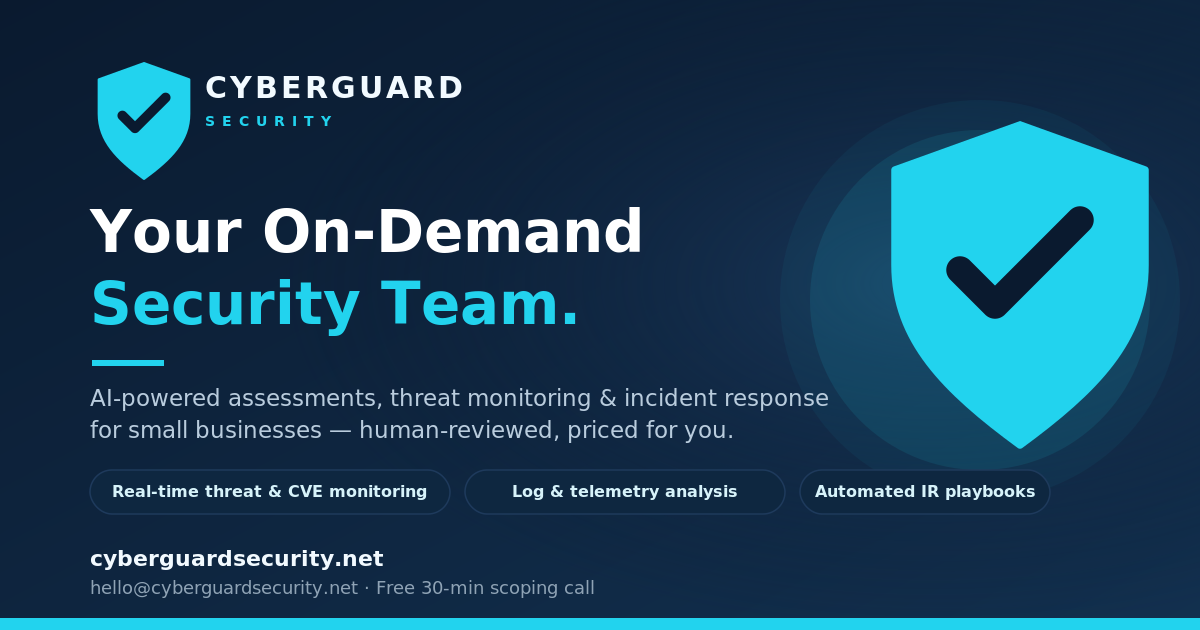
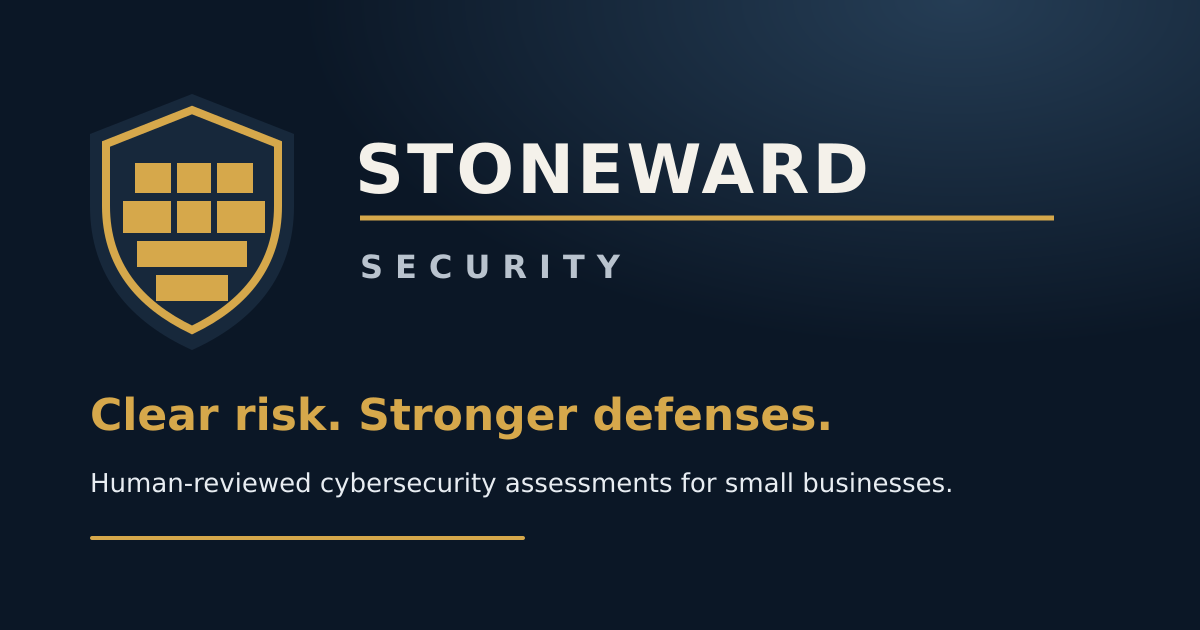
Rebrand website as Stoneward Security
Replace the CyberGuard identity with Stoneward Security across the homepage, metadata, brand assets, icons, and social sharing while preserving the lead funnel.

diff --git a/index.html b/index.html
@@ -4,30 +4,54 @@
 <head>
 <meta charset="UTF-8">
 <meta name="viewport" content="width=device-width, initial-scale=1.0">
-<title>Small Business Cybersecurity Assessments | CyberGuard</title>
+<title>Small Business Cybersecurity Assessments | Stoneward Security</title>
 <meta name="description" content="Get a human-reviewed cybersecurity assessment, prioritized 30/60/90-day action plan, and optional monitoring built for small businesses. Plans start at $750.">
-<meta name="theme-color" content="#0A1A2F">
+<meta name="theme-color" content="#0B1726">
 <link rel="icon" href="favicon.ico" sizes="any">
 <link rel="icon" href="icon-192x192.png" type="image/png" sizes="192x192">
 <link rel="apple-touch-icon" href="apple-touch-icon.png">
 <link rel="manifest" href="site.webmanifest">
-<!-- Social sharing (OG card). On deployment, replace og-card.png with your absolute URL, e.g. https://miguelito1997mv44-byte.github.io/og-card.png -->
-<meta property="og:title" content="Small Business Cybersecurity Assessments | CyberGuard">
+<meta property="og:title" content="Small Business Cybersecurity Assessments | Stoneward Security">
 <meta property="og:description" content="Human-reviewed risk assessments, prioritized action plans, and optional monitoring built for small businesses. Plans start at $750.">
 <meta property="og:image" content="https://miguelito1997mv44-byte.github.io/og-card.png">
+<meta property="og:image:width" content="1200">
+<meta property="og:image:height" content="630">
+<meta property="og:image:alt" content="Stoneward Security — Clear risk. Stronger defenses.">
 <meta property="og:url" content="https://miguelito1997mv44-byte.github.io/">
-<meta property="og:site_name" content="CyberGuard Security">
+<meta property="og:site_name" content="Stoneward Security">
+<meta property="og:locale" content="en_US">
 <link rel="canonical" href="https://miguelito1997mv44-byte.github.io/">
 <meta property="og:type" content="website">
 <meta name="twitter:card" content="summary_large_image">
-<meta name="twitter:title" content="Small Business Cybersecurity Assessments | CyberGuard">
+<meta name="twitter:title" content="Small Business Cybersecurity Assessments | Stoneward Security">
 <meta name="twitter:description" content="Human-reviewed risk assessments, prioritized action plans, and optional monitoring built for small businesses.">
 <meta name="twitter:image" content="https://miguelito1997mv44-byte.github.io/og-card.png">
+<script type="application/ld+json">
+{
+  "@context": "https://schema.org",
+  "@type": "Organization",
+  "name": "Stoneward Security",
+  "url": "https://miguelito1997mv44-byte.github.io/",
+  "logo": "https://miguelito1997mv44-byte.github.io/icon-512x512.png",
+  "description": "Human-reviewed cybersecurity assessments, monitoring, and incident-response guidance for small businesses.",
+  "email": "vdzelectric@gmail.com",
+  "areaServed": {
+    "@type": "Country",
+    "name": "United States"
+  },
+  "knowsAbout": [
+    "Cybersecurity assessments",
+    "Security monitoring",
+    "Incident response planning",
+    "Small business cybersecurity"
+  ]
+}
+</script>
 <style>
   :root{
-    --navy:#0A1A2F; --navy-2:#0E2740; --navy-3:#10243C; --navy-line:#1E3A5C;
-    --cyan:#22D3EE; --cyan-d:#0B84A6; --ink:#14263B; --muted:#5B6B7C;
-    --paper:#F4F7FB; --white:#FFFFFF; --line:#D7E1EC;
+    --navy:#0B1726; --navy-2:#17283B; --navy-3:#21344A; --navy-line:#344A61;
+    --gold:#D6A84B; --gold-d:#8A6017; --ink:#182536; --muted:#5D6978;
+    --paper:#F4F1EA; --white:#FFFFFF; --line:#D8DEE7;
     --radius:14px; --shadow:0 10px 30px rgba(10,26,47,.08);
     --font:"Segoe UI",-apple-system,BlinkMacSystemFont,Roboto,Helvetica,Arial,sans-serif;
   }
@@ -35,15 +59,15 @@
   html{scroll-behavior:smooth}
   body{font-family:var(--font);color:var(--ink);background:var(--white);line-height:1.6;font-size:16px}
   img{max-width:100%;display:block}
-  a{color:var(--cyan-d);text-decoration:none}
+  a{color:var(--gold-d);text-decoration:none}
   .wrap{max-width:1100px;margin:0 auto;padding:0 24px}
-  .btn{display:inline-block;background:var(--cyan);color:var(--navy);font-weight:700;padding:14px 28px;border-radius:10px;font-size:15px;transition:.2s}
-  .btn:hover{transform:translateY(-2px);box-shadow:0 8px 20px rgba(34,211,238,.35)}
+  .btn{display:inline-block;background:var(--gold);color:var(--navy);font-weight:800;padding:14px 28px;border-radius:8px;font-size:15px;transition:.2s}
+  .btn:hover{transform:translateY(-2px);box-shadow:0 8px 20px rgba(214,168,75,.3)}
   .btn.ghost{background:transparent;color:#E8F1FA;border:1px solid var(--navy-line)}
-  .btn.ghost:hover{border-color:var(--cyan);color:var(--cyan)}
+  .btn.ghost:hover{border-color:var(--gold);color:var(--gold)}
   .btn.dark{background:var(--navy-2);color:#fff}
   .btn.dark:hover{background:var(--navy)}
-  .kicker{display:inline-block;font-size:12px;letter-spacing:2.5px;text-transform:uppercase;font-weight:700;color:var(--cyan-d);border:1px solid var(--cyan);border-radius:999px;padding:6px 14px;margin-bottom:18px}
+  .kicker{display:inline-block;font-size:12px;letter-spacing:2.5px;text-transform:uppercase;font-weight:800;color:var(--gold-d);border:1px solid var(--gold);border-radius:999px;padding:6px 14px;margin-bottom:18px}
   h1,h2,h3{line-height:1.2;color:var(--navy)}
   .dark h1,.dark h2,.dark h3{color:#E8F1FA}
   section{padding:84px 0}
@@ -56,13 +80,14 @@
   .nav img{height:38px;width:auto}
   .nav-links{display:flex;gap:28px;align-items:center}
   .nav-links a{color:var(--ink);font-size:15px;font-weight:600}
-  .nav-links a:hover{color:var(--cyan-d)}
+  .nav-links a:hover{color:var(--gold-d)}
   .nav .btn{padding:10px 20px;font-size:14px}
   .burger{display:none;background:none;border:none;font-size:24px;color:var(--navy);cursor:pointer}
   /* ---------- Hero ---------- */
-  .hero{background:radial-gradient(1200px 500px at 80% -10%,#12304F 0%,var(--navy) 55%);color:#E8F1FA;padding:96px 0 84px}
+  .hero{background:radial-gradient(1200px 500px at 80% -10%,#253D55 0%,var(--navy) 58%);color:#E8F1FA;padding:96px 0 84px}
   .hero-grid{display:grid;grid-template-columns:1.15fr .85fr;gap:48px;align-items:center}
   .hero h1{font-size:52px;color:#fff;margin:6px 0 20px}
+  .hero .promise{color:var(--gold);font-size:17px;font-weight:800;letter-spacing:.3px;margin:-6px 0 10px}
   .hero .lead{font-size:19px;color:#B9CCDD;max-width:520px;margin-bottom:30px}
   .hero .cta-row{display:flex;gap:14px;flex-wrap:wrap;margin-bottom:34px}
   .chips{display:flex;flex-wrap:wrap;gap:8px;margin-bottom:40px}
@@ -70,44 +95,44 @@
   .hero-stats{display:grid;grid-template-columns:repeat(4,1fr);gap:16px}
   .hero-stats-spaced{margin-top:56px}
   .hstat{background:var(--navy-2);border:1px solid var(--navy-line);border-radius:var(--radius);padding:18px}
-  .hstat .num{font-size:24px;font-weight:800;color:var(--cyan)}
+  .hstat .num{font-size:24px;font-weight:800;color:var(--gold)}
   .hstat .lbl{font-size:12.5px;color:#9FB4C6;margin-top:4px;line-height:1.4}
   .hero-art{background:var(--navy-2);border:1px solid var(--navy-line);border-radius:20px;padding:30px;position:relative}
   .hero-art img{height:110px;margin:0 auto 18px}
-  .hero-art h3{color:var(--cyan);font-size:15px;letter-spacing:1px;text-transform:uppercase;margin-bottom:10px}
+  .hero-art h3{color:var(--gold);font-size:15px;letter-spacing:1px;text-transform:uppercase;margin-bottom:10px}
   .hero-art ul{list-style:none}
   .hero-art li{padding:8px 0 8px 30px;position:relative;font-size:15px;color:#DCE9F2;border-bottom:1px dashed var(--navy-line)}
   .hero-art li:last-child{border-bottom:none}
-  .hero-art li::before{content:"✓";position:absolute;left:0;color:var(--cyan);font-weight:800}
-  .hero-art .badge{position:absolute;top:-14px;right:20px;background:var(--cyan);color:var(--navy);font-size:12px;font-weight:800;padding:6px 14px;border-radius:999px}
+  .hero-art li::before{content:"✓";position:absolute;left:0;color:var(--gold);font-weight:800}
+  .hero-art .badge{position:absolute;top:-14px;right:20px;background:var(--gold);color:var(--navy);font-size:12px;font-weight:800;padding:6px 14px;border-radius:999px}
   /* ---------- Trust strip ---------- */
   .trust{background:var(--paper);padding:28px 0;border-bottom:1px solid var(--line)}
   .trust .wrap{display:flex;justify-content:space-between;gap:20px;flex-wrap:wrap;align-items:center}
   .trust-item{display:flex;align-items:center;gap:10px;font-size:14px;font-weight:600;color:var(--navy)}
-  .trust-item .tick{background:var(--navy-2);color:var(--cyan);width:26px;height:26px;border-radius:50%;display:flex;align-items:center;justify-content:center;font-size:13px;flex-shrink:0}
+  .trust-item .tick{background:var(--navy-2);color:var(--gold);width:26px;height:26px;border-radius:50%;display:flex;align-items:center;justify-content:center;font-size:13px;flex-shrink:0}
   /* ---------- Services ---------- */
   .svc-grid{display:grid;grid-template-columns:repeat(2,1fr);gap:22px}
   .svc{background:var(--white);border:1px solid var(--line);border-radius:var(--radius);padding:28px;box-shadow:var(--shadow)}
-  .svc .ic{width:46px;height:46px;border-radius:12px;background:var(--navy-2);color:var(--cyan);display:flex;align-items:center;justify-content:center;font-size:22px;font-weight:800;margin-bottom:16px}
+  .svc .ic{width:46px;height:46px;border-radius:10px;background:var(--navy-2);color:var(--gold);display:flex;align-items:center;justify-content:center;font-size:22px;font-weight:800;margin-bottom:16px}
   .svc h3{font-size:19px;margin-bottom:8px}
   .svc p{color:var(--muted);font-size:15px}
   /* ---------- How it works ---------- */
   .how{background:var(--navy);color:#E8F1FA}
   .steps{display:grid;grid-template-columns:repeat(4,1fr);gap:18px}
   .step{background:var(--navy-2);border:1px solid var(--navy-line);border-radius:var(--radius);padding:24px;text-align:center}
-  .step .n{width:44px;height:44px;margin:0 auto 14px;border-radius:50%;background:var(--cyan);color:var(--navy);font-weight:800;font-size:18px;display:flex;align-items:center;justify-content:center}
+  .step .n{width:44px;height:44px;margin:0 auto 14px;border-radius:50%;background:var(--gold);color:var(--navy);font-weight:800;font-size:18px;display:flex;align-items:center;justify-content:center}
   .step h3{font-size:16.5px;color:#E8F1FA;margin-bottom:8px}
   .step p{font-size:13.5px;color:#9FB4C6}
   .how-note{margin-top:28px;background:var(--navy-2);border:1px solid var(--navy-line);border-radius:var(--radius);padding:24px;display:grid;grid-template-columns:1fr 1fr;gap:22px}
-  .how-note h4{color:var(--cyan);font-size:15px;margin-bottom:8px}
+  .how-note h4{color:var(--gold);font-size:15px;margin-bottom:8px}
   .how-note p{font-size:14px;color:#B9CCDD}
   /* ---------- Outcomes ---------- */
   .out-grid{display:grid;grid-template-columns:repeat(4,1fr);gap:18px}
   .out{background:var(--white);border:1px solid var(--line);border-radius:var(--radius);padding:24px;text-align:center;box-shadow:var(--shadow)}
-  .out .num{font-size:30px;font-weight:800;color:var(--cyan-d)}
+  .out .num{font-size:30px;font-weight:800;color:var(--gold-d)}
   .out .lbl{font-size:13.5px;color:var(--muted);margin-top:6px}
   .bar{background:var(--paper);border:1px solid var(--line);border-radius:12px;overflow:hidden;height:14px;margin-top:6px}
-  .bar span{display:block;height:100%;background:linear-gradient(90deg,var(--cyan),#3B82F6)}
+  .bar span{display:block;height:100%;background:linear-gradient(90deg,var(--gold),#68798B)}
   .bar .w-20{width:20%}
   .bar .w-29{width:29%}
   .bar .w-71{width:71%}
@@ -117,30 +142,30 @@
   .pricing{background:var(--paper)}
   .price-grid{display:grid;grid-template-columns:repeat(4,1fr);gap:18px;align-items:stretch}
   .plan{background:var(--white);border:1px solid var(--line);border-radius:var(--radius);padding:26px;display:flex;flex-direction:column}
-  .plan.featured{border:2px solid var(--cyan);box-shadow:0 12px 34px rgba(34,211,238,.18)}
+  .plan.featured{border:2px solid var(--gold);box-shadow:0 12px 34px rgba(214,168,75,.18)}
   .plan .p-name{font-size:15px;font-weight:800;color:var(--navy);text-transform:uppercase;letter-spacing:.5px}
   .plan .p-price{font-size:30px;font-weight:800;color:var(--navy);margin:10px 0 2px}
   .plan .price-period{font-size:16px;color:var(--muted)}
   .plan .p-sub{font-size:13px;color:var(--muted);margin-bottom:16px}
   .plan ul{list-style:none;flex:1;margin-bottom:20px}
   .plan li{padding:7px 0 7px 26px;position:relative;font-size:14px;color:#3A4B5E}
-  .plan li::before{content:"✓";position:absolute;left:0;color:var(--cyan-d);font-weight:800}
+  .plan li::before{content:"✓";position:absolute;left:0;color:var(--gold-d);font-weight:800}
   .plan .btn{text-align:center}
   .addons{margin-top:26px;display:grid;grid-template-columns:repeat(2,1fr);gap:12px}
   .addon{background:var(--white);border:1px solid var(--line);border-radius:10px;padding:14px 18px;display:flex;justify-content:space-between;font-size:14.5px}
   .addon b{color:var(--navy)}
   .included{margin-top:26px;background:var(--navy-2);border-radius:var(--radius);padding:22px 26px;color:#DCE9F2}
-  .included h4{color:var(--cyan);font-size:15px;margin-bottom:10px}
+  .included h4{color:var(--gold);font-size:15px;margin-bottom:10px}
   .included ul{list-style:none;display:grid;grid-template-columns:repeat(2,1fr);gap:6px 24px}
   .included li{font-size:14px;padding-left:24px;position:relative}
-  .included li::before{content:"✓";position:absolute;left:0;color:var(--cyan)}
+  .included li::before{content:"✓";position:absolute;left:0;color:var(--gold)}
   /* ---------- Why us ---------- */
   .why{background:var(--navy);color:#E8F1FA}
   table.cmp{width:100%;border-collapse:collapse;background:var(--navy-2);border-radius:14px;overflow:hidden;font-size:14.5px}
-  table.cmp th{background:var(--navy-3);color:var(--cyan);text-align:left;padding:14px 18px;font-size:13px;text-transform:uppercase;letter-spacing:1px}
+  table.cmp th{background:var(--navy-3);color:var(--gold);text-align:left;padding:14px 18px;font-size:13px;text-transform:uppercase;letter-spacing:1px}
   table.cmp td{padding:14px 18px;border-top:1px solid var(--navy-line);color:#B9CCDD;vertical-align:top}
   table.cmp td:first-child{color:#E8F1FA;font-weight:700;white-space:nowrap}
-  table.cmp .win{color:var(--cyan)}
+  table.cmp .win{color:var(--gold)}
   .why-note{margin-top:22px;font-size:14px;color:#9FB4C6}
   /* ---------- FAQ ---------- */
   .faq{max-width:760px;margin:0 auto}
@@ -154,12 +179,13 @@
   .contact h2{color:#fff}
   .contact .sub{color:#9FB4C6;margin-bottom:26px}
   .c-item{display:flex;align-items:center;gap:12px;margin-bottom:14px;font-size:15px;color:#DCE9F2}
-  .c-item .ic{width:36px;height:36px;border-radius:10px;background:var(--navy-2);color:var(--cyan);display:flex;align-items:center;justify-content:center;font-size:16px;flex-shrink:0}
+  .contact .c-item a{color:#E8EDF2;text-decoration:underline;text-decoration-color:var(--gold);text-underline-offset:3px}
+  .c-item .ic{width:36px;height:36px;border-radius:10px;background:var(--navy-2);color:var(--gold);display:flex;align-items:center;justify-content:center;font-size:16px;flex-shrink:0}
   form{background:var(--navy-2);border:1px solid var(--navy-line);border-radius:16px;padding:28px}
   .frow{display:grid;grid-template-columns:1fr 1fr;gap:14px}
   label{display:block;font-size:13px;font-weight:700;color:#B9CCDD;margin:14px 0 6px}
   input,textarea{width:100%;background:var(--navy-3);border:1px solid var(--navy-line);border-radius:9px;padding:12px 14px;color:#E8F1FA;font-size:15px;font-family:inherit}
-  input:focus,textarea:focus{outline:none;border-color:var(--cyan)}
+  input:focus,textarea:focus{outline:none;border-color:var(--gold)}
   textarea{resize:vertical;min-height:110px}
   form .btn{width:100%;margin-top:20px;border:none;cursor:pointer;font-size:15px}
   .form-note{font-size:12.5px;color:#9FB4C6;margin-top:12px;text-align:center}
@@ -195,7 +221,7 @@
 <!-- ================= HEADER ================= -->
 <header>
   <div class="wrap nav">
-    <img src="cyberguard_logo.svg" alt="CyberGuard Security logo">
+    <img src="stoneward_logo.svg" alt="Stoneward Security logo">
     <nav class="nav-links" id="navLinks">
       <a href="#services">Services</a>
       <a href="#how">How it works</a>
@@ -214,7 +240,8 @@
     <div>
       <span class="kicker">Human-reviewed cybersecurity for small businesses</span>
       <h1>Find your biggest cyber risks.<br>Fix what matters first.</h1>
-      <p class="lead">Get a clear risk assessment, evidence-backed findings, and a prioritized 30/60/90-day action plan — without hiring an in-house security team. Target first-draft delivery: 48 hours; assessments start at $750.</p>
+      <p class="promise">Clear risk. Stronger defenses.</p>
+      <p class="lead">Get a nationwide, human-reviewed risk assessment, evidence-backed findings, and a prioritized 30/60/90-day action plan — without hiring an in-house security team. Target first-draft delivery: 48 hours; assessments start at $750.</p>
       <div class="cta-row">
         <a class="btn" href="#contact">Book a free 30-minute risk review</a>
         <a class="btn ghost" href="#pricing">View plans and pricing</a>
@@ -225,11 +252,12 @@
         <span class="chip">Prioritized 30/60/90-day plan</span>
         <span class="chip">Optional on-site log processing</span>
         <span class="chip">Human-reviewed reports</span>
+        <span class="chip">Nationwide, remote-first service</span>
       </div>
     </div>
     <div class="hero-art">
       <span class="badge">First draft in 48h</span>
-      <img src="cyberguard_logo_icon_light.svg" alt="CyberGuard Security shield">
+      <img src="stoneward_logo_icon_light.svg" alt="Stoneward Security shield">
       <h3>Your first assessment includes</h3>
       <ul>
         <li>Risk and posture scores across 13 controls</li>
@@ -357,7 +385,7 @@
           <li>Prioritized 30/60/90 plan</li>
           <li>30-min review call</li>
         </ul>
-        <a class="btn dark" href="mailto:vdzelectric@gmail.com?subject=CyberGuard%20Assessment">Get started</a>
+        <a class="btn dark" href="mailto:vdzelectric@gmail.com?subject=Stoneward%20Security%20Assessment">Get started</a>
       </div>
       <div class="plan featured">
         <div class="p-name">Monitoring Essentials</div>
@@ -370,7 +398,7 @@
           <li>Email support</li>
           <li>Posture trend tracking</li>
         </ul>
-        <a class="btn" href="mailto:vdzelectric@gmail.com?subject=Monitoring%20Essentials">Start monitoring</a>
+        <a class="btn" href="mailto:vdzelectric@gmail.com?subject=Stoneward%20Security%20Monitoring%20Essentials">Start monitoring</a>
       </div>
       <div class="plan">
         <div class="p-name">Monitoring Pro</div>
@@ -384,7 +412,7 @@
           <li>Quarterly deep dive</li>
           <li>24-hour analyst response</li>
         </ul>
-        <a class="btn dark" href="mailto:vdzelectric@gmail.com?subject=Monitoring%20Pro">Go Pro</a>
+        <a class="btn dark" href="mailto:vdzelectric@gmail.com?subject=Stoneward%20Security%20Monitoring%20Pro">Go Pro</a>
       </div>
       <div class="plan">
         <div class="p-name">MSP White-Label</div>
@@ -396,7 +424,7 @@
           <li>Volume pricing tiers</li>
           <li>Onboarding &amp; training included</li>
         </ul>
-        <a class="btn dark" href="mailto:vdzelectric@gmail.com?subject=MSP%20White-Label">Partner with us</a>
+        <a class="btn dark" href="mailto:vdzelectric@gmail.com?subject=Stoneward%20Security%20MSP%20White-Label">Partner with us</a>
       </div>
     </div>
     <div class="addons">
@@ -427,7 +455,7 @@
     </div>
     <table class="cmp">
       <tbody>
-      <tr><th>Option</th><th>What you get</th><th>Where CyberGuard Security wins</th></tr>
+      <tr><th>Option</th><th>What you get</th><th>Where Stoneward Security wins</th></tr>
       <tr><td>MSSP retainer</td><td>24/7 monitoring, slow onboarding, generic reports</td><td class="win">Lower entry cost · assessments in days · plain-language reports</td></tr>
       <tr><td>SIEM / SOC platforms</td><td>Powerful, but needs security analysts to operate</td><td class="win">Built for small businesses without an in-house analyst</td></tr>
       <tr><td>DIY tools (Wazuh, ELK)</td><td>Free software, big IT project</td><td class="win">Analysis, playbooks, and reporting done for you</td></tr>
@@ -478,7 +506,7 @@
       <span class="kicker">Contact</span>
       <h2>Book your free 30-minute risk review</h2>
       <p class="sub">We'll map your environment, identify the highest-priority questions, and recommend the right next step — even if that is not one of our paid plans.</p>
-      <div class="c-item"><span class="ic">✉</span> vdzelectric@gmail.com</div>
+      <div class="c-item"><span class="ic">✉</span> <a href="mailto:vdzelectric@gmail.com?subject=Stoneward%20Security%20inquiry">Email Stoneward Security</a></div>
       <div class="c-item"><span class="ic">🕒</span> First DRAFT report within 48 hours</div>
       <div class="c-item"><span class="ic">🔒</span> Raw logs deleted after analysis — or kept on your network (Tier 2)</div>
     </div>
@@ -492,7 +520,7 @@
       <label for="msg">Tell us about your environment</label>
       <textarea id="msg" name="msg" placeholder="e.g. 12 employees, Windows 11, Microsoft 365, WordPress site, no IT staff…"></textarea>
       <button type="submit" class="btn">Request my free risk review</button>
-      <p class="form-note" id="formNote">This form opens your email app — or write to vdzelectric@gmail.com directly.</p>
+      <p class="form-note" id="formNote">This form opens your email app so you can review the message before sending.</p>
     </form>
   </div>
 </section>
@@ -501,13 +529,13 @@
 <footer>
   <div class="wrap">
     <div class="foot">
-      <img src="cyberguard_logo_light.svg" alt="CyberGuard Security">
+      <img src="stoneward_logo_light.svg" alt="Stoneward Security">
       <div>
         <a href="#top">Back to top ↑</a> &nbsp;·&nbsp;
-        <a href="mailto:vdzelectric@gmail.com">vdzelectric@gmail.com</a>
+        <a href="mailto:vdzelectric@gmail.com?subject=Stoneward%20Security%20inquiry">Email Stoneward Security</a>
       </div>
     </div>
-    <p class="disc">CyberGuard Security provides advisory security assessments, monitoring, and incident-response guidance. Services are advisory in nature and do not constitute a guarantee of security, a compliance certification, or legal advice. Findings are based on the information and logs provided. Reports are DRAFT until human review and sign-off. © <span id="year"></span> CyberGuard Security. All rights reserved.</p>
+    <p class="disc">Stoneward Security provides advisory security assessments, monitoring, and incident-response guidance. Services are advisory in nature and do not constitute a guarantee of security, a compliance certification, or legal advice. Findings are based on the information and logs provided. Reports are DRAFT until human review and sign-off. © <span id="year"></span> Stoneward Security. All rights reserved.</p>
   </div>
 </footer>
 
@@ -526,13 +554,13 @@
     var em = document.getElementById('email').value.trim();
     var co = document.getElementById('company').value.trim();
     var m = document.getElementById('msg').value.trim();
-    var subject = 'CyberGuard Security inquiry' + (co ? ' — ' + co : '');
+    var subject = 'Stoneward Security inquiry' + (co ? ' — ' + co : '');
     var body = 'Name: ' + n + '\nEmail: ' + em + '\nCompany: ' + co + '\n\nEnvironment:\n' + m;
     var note = document.getElementById('formNote');
     if (n && em) {
       window.location.href = 'mailto:vdzelectric@gmail.com?subject=' +
         encodeURIComponent(subject) + '&body=' + encodeURIComponent(body);
-      note.textContent = 'Opening your email app… If nothing happens, write to vdzelectric@gmail.com directly.';
+      note.textContent = 'Opening your email app… If nothing happens, use the Email Stoneward Security link beside the form.';
     }
   });
 </script>

diff --git a/README.md b/README.md
@@ -1,6 +1,6 @@
-# CyberGuard Security
+# Stoneward Security
 
-**Your On-Demand Security Team.** AI-powered security assessments, monitoring, and incident response for small businesses — human-reviewed, trust-first, and built so your logs never leave your network.
+**Clear risk. Stronger defenses.** Human-reviewed cybersecurity assessments, monitoring, and incident response for small businesses — practical, evidence-backed, and built so your logs never have to leave your network.
 
 🌐 **Live site:** [https://miguelito1997mv44-byte.github.io](https://miguelito1997mv44-byte.github.io/)
 📧 **Contact:** [vdzelectric@gmail.com](mailto:vdzelectric@gmail.com)
@@ -9,7 +9,7 @@
 
 ## What this is
 
-This repository hosts the public marketing site for **CyberGuard Security**, a managed security service built around the *CyberGuard AI* agent. The site explains the service, pricing, and privacy model — including **Tier 2 client-site analysis**, where a code-signed collector runs on your premises so raw logs never leave your network.
+This repository hosts the public marketing site for **Stoneward Security**, a nationwide cybersecurity service for small businesses. The site explains the service, pricing, and privacy model — including **Tier 2 client-site analysis**, where a code-signed collector runs on your premises so raw logs never leave your network.
 
 > **Honest positioning:** we are advisory-only. No service can guarantee security, and we do not claim to. Every report is a DRAFT until a human reviews and signs off.
 
@@ -19,7 +19,7 @@ This repository hosts the public marketing site for **CyberGuard Security**, a m
 - `og-card.png` — social-share preview image for Open Graph and Twitter cards
 - `favicon.ico`, `icon-*.png`, and `apple-touch-icon.png` — browser and device icons
 - `site.webmanifest` — PWA metadata for installability
-- `cyberguard_logo*.svg` — brand logo assets in dark and light variants
+- `stoneward_logo*.svg` — brand logo assets in dark and light variants
 - `robots.txt` — crawler guidance for search engines
 - `.nojekyll` — ensures GitHub Pages serves the site as a plain static site
 
